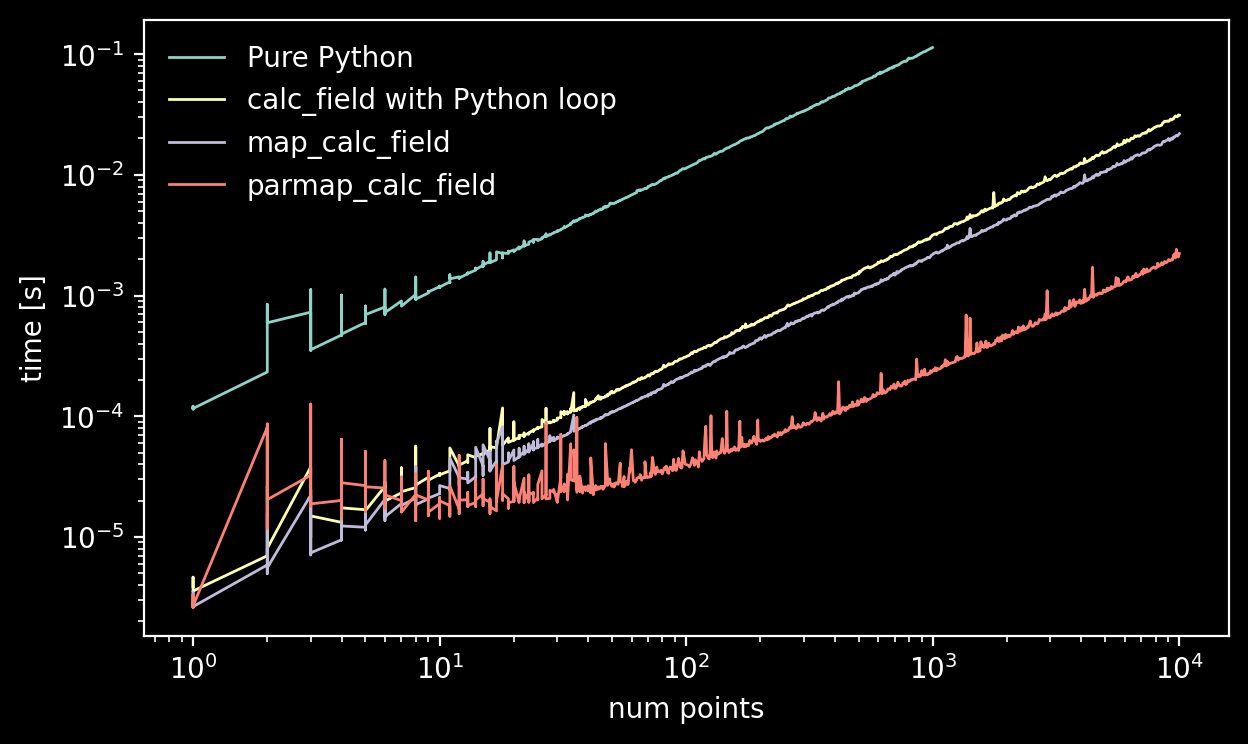
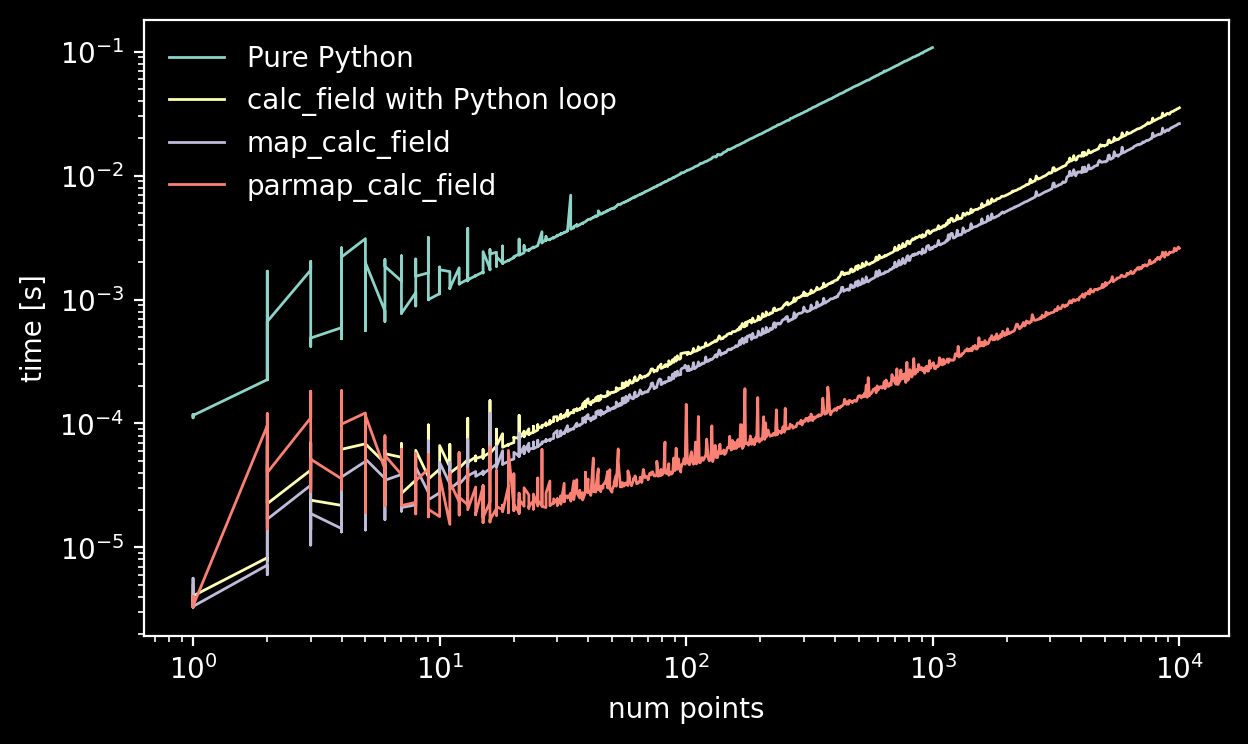
add: rust benchmarking script, optimization: precalculate something outside loop

diff --git a/iupitermag-core/src/internal.rs b/iupitermag-core/src/internal.rs
@@ -109,24 +109,25 @@ impl Field for InternalField {
             cosphi_prev = 1.;
 
             let i_i32 = i32::try_from(i).unwrap();
+            let a_pow_iplus2 = a.powi(i_i32 + 2);
 
-            b_r += a.powi(i_i32 + 2) * (i + 1) as f64 * p[[i, 0]] * g[[i, 0]];
-            b_theta -= a.powi(i_i32 + 2) * dp[[i, 0]] * g[[i, 0]];
+            b_r += a_pow_iplus2 * (i + 1) as f64 * p[[i, 0]] * g[[i, 0]];
+            b_theta -= a_pow_iplus2 * dp[[i, 0]] * g[[i, 0]];
 
             for j in 1..i + 1 {
                 sin_mphi = sinphi_prev * cosphi + cosphi_prev * sinphi;
                 cos_mphi = cosphi_prev * cosphi - sinphi_prev * sinphi;
 
-                b_r += a.powi(i_i32 + 2)
+                b_r += a_pow_iplus2
                     * (i + 1) as f64
                     * p[[i, j]]
                     * (g[[i, j]] * cos_mphi + h[[i, j]] * sin_mphi);
 
                 b_theta -=
-                    a.powi(i_i32 + 2) * dp[[i, j]] * (g[[i, j]] * cos_mphi + h[[i, j]] * sin_mphi);
+                    a_pow_iplus2 * dp[[i, j]] * (g[[i, j]] * cos_mphi + h[[i, j]] * sin_mphi);
 
                 b_phi += inv_sintheta
-                    * a.powi(i_i32 + 2)
+                    * a_pow_iplus2
                     * p[[i, j]]
                     * j as f64
                     * (g[[i, j]] * sin_mphi - h[[i, j]] * cos_mphi);

diff --git a/iupitermag-core/benches/bench_internal.rs b/iupitermag-core/benches/bench_internal.rs
@@ -1,0 +1,19 @@
+use criterion::{Criterion, criterion_group, criterion_main};
+use iupitermag::{field::Field, internal::InternalField};
+use std::{f64::consts::PI, hint::black_box};
+
+fn criterion_benchmark(c: &mut Criterion) {
+    let internal_field = InternalField::new("JRM33", None, None, None);
+    c.bench_function("Internal Field", |b| {
+        b.iter(|| {
+            _ = internal_field.calc_field(
+                black_box(10.),
+                black_box(PI * 0.25),
+                black_box(PI * 0.3),
+            );
+        })
+    });
+}
+
+criterion_group!(benches, criterion_benchmark);
+criterion_main!(benches);
